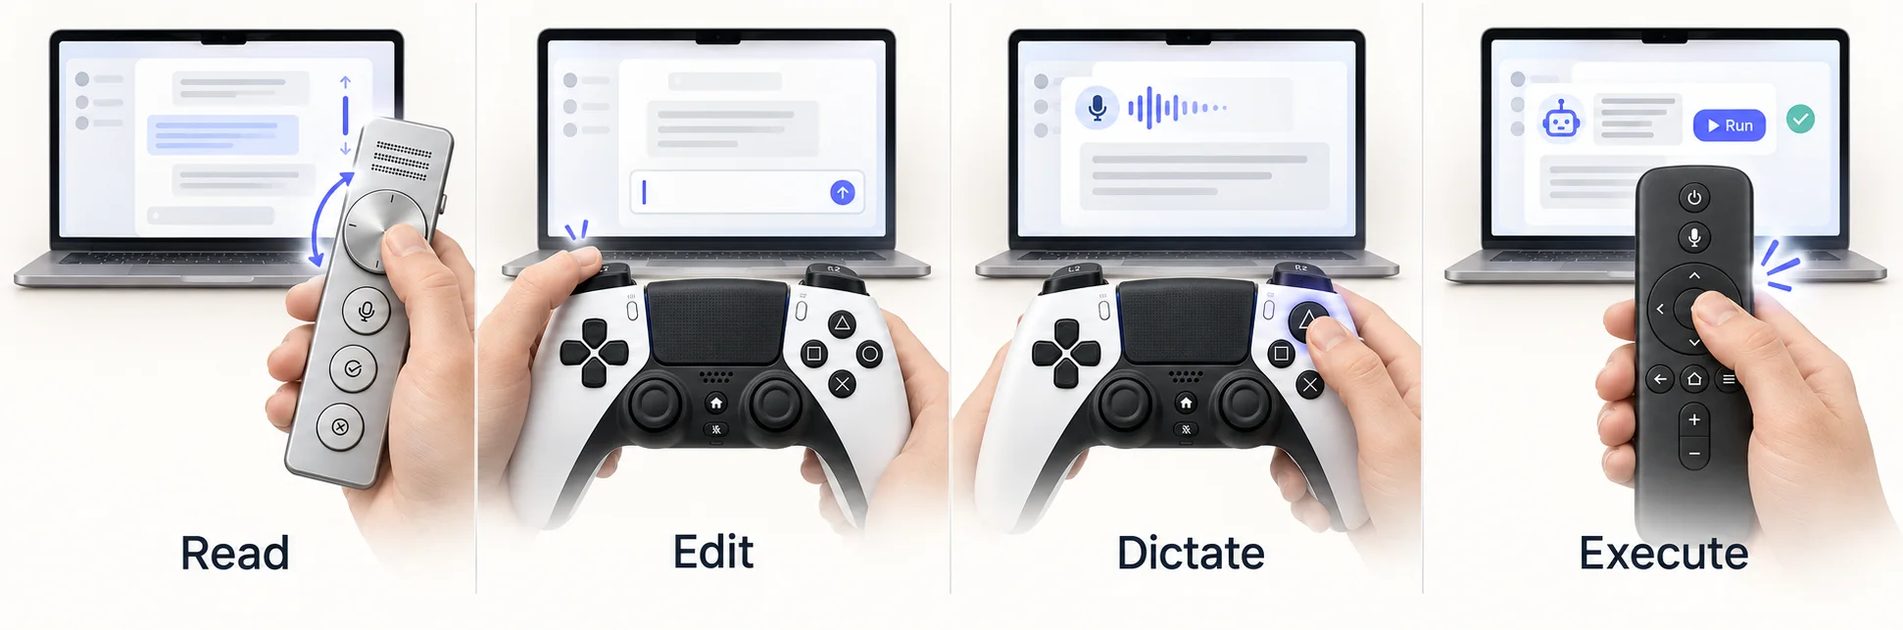
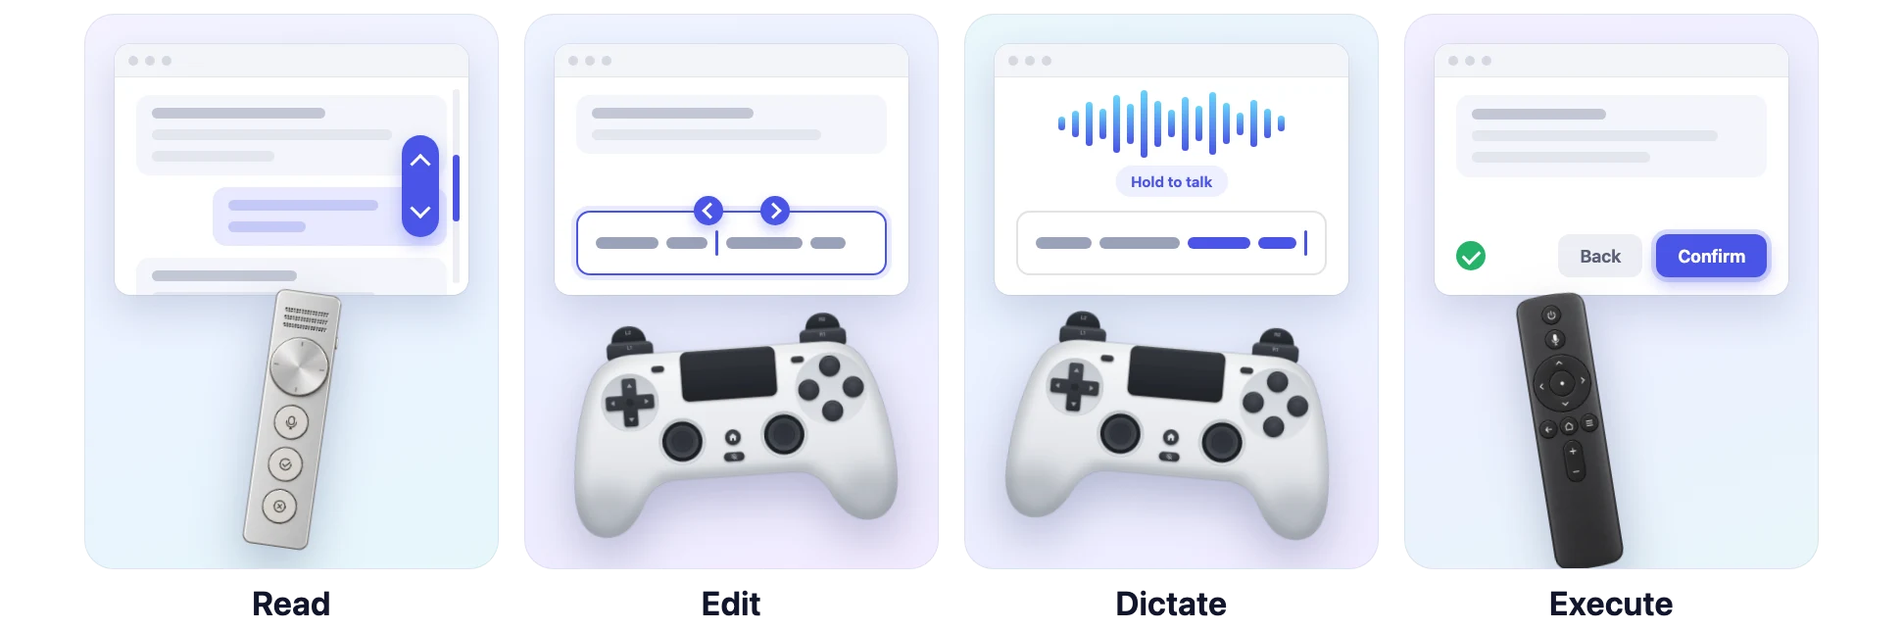
Retake the pictures that showed the former controller, compose the four scenes from our own artwork; release 0.11.2
0.11.2 carries the controller drawing of d656387 in the app; the package of
0.11.1 still had the generated picture. The app itself is otherwise
unchanged from d656387.

The pictures the READMEs and the site show were the last places with the
former picture. The overlay screenshot is taken again: the 0.11.2 package
started in Demo mode with settings of its own (a first launch, the
Controller chosen, the overlay expanded), its one overlay window captured
with screencapture -l in English and Chinese, beside a running build that
was left alone. It shows the default layout under the dark appearance and
replaces the screenshots of 0.8.1. The four scenes under "What it does"
are now docs/images/workflow-scenes.html, composed from this repository's
own device pictures and rendered with headless Chrome; the two generated
illustrations they replace, which showed hands holding the former
controller, are removed with their prompts. docs/images/README.md says how
each was made.

Still showing the former picture: historical renderings and concept
pictures in the documentation, the published film, the packages up to
0.11.1 and this repository's history.

Verified: 382 tests, 341 passed and 41 opt-in skipped; the 0.11.2 package
checked statically, its kernel passing KernelLiveTests (14 passed, one
skipped) and its recogniser reading two synthetic recordings; the site
looked at in a local preview with the new pictures. Not verified: the
[…]

diff --git a/docs/images/workflow-scenes.html b/docs/images/workflow-scenes.html
@@ -1,0 +1,143 @@
+<!doctype html>
+<!-- The four scenes under “What it does”: Read, Edit, Dictate, Execute. Composed from this repository's own device
+     pictures; the screens are drawings, not captures of an app. Rendered at 1942 × 643 with headless Chrome:
+     see docs/images/README.md. -->
+<html lang="en">
+<head>
+<meta charset="utf-8">
+<title>VibeWand: what it does</title>
+<style>
+    * { box-sizing: border-box; margin: 0; padding: 0; }
+    html, body { width: 1942px; height: 643px; background: transparent; overflow: hidden; }
+    body {
+        display: grid; grid-template-columns: repeat(4, 1fr); gap: 26px; padding: 14px 86px 0;
+        font-family: -apple-system, BlinkMacSystemFont, "SF Pro Display", "Helvetica Neue", Arial, sans-serif; color: #12162b;
+    }
+    .scene { position: relative; height: 629px; }
+    .stage {
+        position: absolute; inset: 0 0 62px 0; border-radius: 30px; overflow: hidden;
+        background: linear-gradient(160deg, #f4f2ff 0%, #eaf3ff 55%, #e6f7fb 100%);
+        border: 1px solid rgba(18, 22, 43, 0.07);
+    }
+    .scene:nth-child(2) .stage { background: linear-gradient(160deg, #eef4ff 0%, #ebeeff 55%, #f3ecff 100%); }
+    .scene:nth-child(3) .stage { background: linear-gradient(160deg, #e9f6fb 0%, #eaf1ff 55%, #f1ecff 100%); }
+    .scene:nth-child(4) .stage { background: linear-gradient(160deg, #f3efff 0%, #ecf0ff 55%, #e8f6fa 100%); }
+    h3 { position: absolute; left: 0; right: 0; bottom: 8px; text-align: center; font-size: 34px; font-weight: 650; letter-spacing: 0.2px; }
+
+    /* A window on a screen. */
+    .window {
+        position: absolute; left: 30px; right: 30px; top: 30px; height: 256px; border-radius: 16px; background: #fff;
+        box-shadow: 0 18px 40px rgba(40, 48, 110, 0.16), 0 0 0 1px rgba(18, 22, 43, 0.06); overflow: hidden;
+    }
+    .bar { height: 34px; background: #f3f4f8; border-bottom: 1px solid rgba(18, 22, 43, 0.06); display: flex; align-items: center; gap: 7px; padding-left: 14px; }
+    .bar i { width: 10px; height: 10px; border-radius: 50%; background: #d5d8e2; }
+    .content { position: absolute; inset: 34px 0 0 0; padding: 18px 22px; }
+    .line { height: 11px; border-radius: 6px; background: #e3e6ef; margin-bottom: 11px; }
+    .line.dark { background: #c2c7d6; }
+    .bubble { border-radius: 14px; padding: 13px 16px 3px; margin-bottom: 12px; background: #f3f5fa; }
+    .bubble.mine { margin-left: 78px; background: #e7e9ff; }
+    .bubble.mine .line { background: #c5c9f7; }
+
+    /* Read: the conversation scrolls. */
+    .track { position: absolute; right: 9px; top: 12px; bottom: 12px; width: 7px; border-radius: 4px; background: #eceef4; }
+    .thumb { position: absolute; left: 0; right: 0; top: 34%; height: 34%; border-radius: 4px; background: #4a54e6; }
+    .travel { position: absolute; right: 30px; top: 50%; transform: translateY(-50%); width: 38px; height: 104px; border-radius: 19px; background: #4a54e6; box-shadow: 0 8px 18px rgba(74, 84, 230, 0.35); }
+    .travel::before, .travel::after { content: ""; position: absolute; left: 50%; width: 12px; height: 12px; border: solid #fff; border-width: 3px 0 0 3px; }
+    .travel::before { top: 22px; transform: translateX(-50%) rotate(45deg); }
+    .travel::after { bottom: 22px; transform: translateX(-50%) rotate(225deg); }
+
+    /* Edit: the caret moves in the draft. */
+    .draft { position: absolute; left: 22px; right: 22px; bottom: 20px; height: 66px; border-radius: 14px; border: 2px solid #4a54e6; background: #fff; padding: 18px 18px 0; box-shadow: 0 0 0 5px rgba(74, 84, 230, 0.12); }
+    .words { display: flex; align-items: center; gap: 8px; height: 26px; }
+    .word { height: 12px; border-radius: 6px; background: #9aa1b8; }
+    .caret { width: 3px; height: 26px; border-radius: 2px; background: #4a54e6; }
+    .step { position: absolute; top: -17px; width: 30px; height: 30px; border-radius: 50%; background: #4a54e6; box-shadow: 0 6px 14px rgba(74, 84, 230, 0.35); }
+    .step::after { content: ""; position: absolute; left: 50%; top: 50%; width: 9px; height: 9px; border: solid #fff; border-width: 3px 0 0 3px; }
+    .step.back { left: 118px; } .step.back::after { transform: translate(-35%, -50%) rotate(-45deg); }
+    .step.on { left: 186px; } .step.on::after { transform: translate(-65%, -50%) rotate(135deg); }
+
+    /* Dictate: a voice becomes text in the draft. */
+    .wave { position: absolute; left: 22px; right: 22px; top: 12px; height: 70px; display: flex; align-items: center; justify-content: center; gap: 7px; }
+    .wave b { width: 7px; border-radius: 4px; background: linear-gradient(#67d4fb, #4a54e6); }
+    .mic { position: absolute; left: 50%; top: 90px; transform: translateX(-50%); padding: 7px 16px; border-radius: 16px; background: #eef0ff; color: #4a54e6; font-size: 15px; font-weight: 650; }
+    .draft.spoken { border-color: rgba(18, 22, 43, 0.12); box-shadow: none; }
+    .draft.spoken .word.new { background: #4a54e6; }
+
+    /* Execute: one press confirms. */
+    .ask { border-radius: 14px; background: #f3f5fa; padding: 14px 16px 4px; }
+    .choices { position: absolute; left: 22px; right: 22px; bottom: 18px; display: flex; gap: 14px; justify-content: flex-end; align-items: center; }
+    .button { height: 44px; padding: 0 22px; border-radius: 12px; display: flex; align-items: center; font-size: 18px; font-weight: 650; background: #eceef4; color: #5a6075; }
+    .button.go { background: #4a54e6; color: #fff; box-shadow: 0 0 0 5px rgba(74, 84, 230, 0.2), 0 8px 18px rgba(74, 84, 230, 0.35); }
+    .done { width: 30px; height: 30px; border-radius: 50%; background: #25b36a; position: relative; margin-right: auto; }
+    .done::after { content: ""; position: absolute; left: 10px; top: 6px; width: 8px; height: 14px; border: solid #fff; border-width: 0 3px 3px 0; transform: rotate(45deg); }
+
+    /* The device in the hand's place, in front of the screen. */
+    .device { position: absolute; filter: drop-shadow(0 22px 26px rgba(30, 36, 90, 0.28)); }
+    .dial { height: 292px; left: 50%; bottom: 8px; transform: translateX(-50%) rotate(8deg); }
+    .pad { width: 350px; left: 50%; bottom: 30px; transform: translateX(-50%) rotate(-4deg); }
+    .pad.right { transform: translateX(-50%) rotate(5deg); }
+    .remote { height: 296px; left: 40%; bottom: -8px; transform: translateX(-50%) rotate(-9deg); }
+</style>
+</head>
+<body>
+    <section class="scene">
+        <div class="stage">
+            <div class="window"><div class="bar"><i></i><i></i><i></i></div>
+                <div class="content">
+                    <div class="bubble"><div class="line dark" style="width:62%"></div><div class="line" style="width:86%"></div><div class="line" style="width:44%"></div></div>
+                    <div class="bubble mine"><div class="line" style="width:74%"></div><div class="line" style="width:38%"></div></div>
+                    <div class="bubble"><div class="line dark" style="width:52%"></div><div class="line" style="width:80%"></div></div>
+                    <div class="track"><div class="thumb"></div></div>
+                    <div class="travel"></div>
+                </div>
+            </div>
+            <img class="device dial" src="../../assets/device/controller.png" alt="">
+        </div>
+        <h3>Read</h3>
+    </section>
+    <section class="scene">
+        <div class="stage">
+            <div class="window"><div class="bar"><i></i><i></i><i></i></div>
+                <div class="content">
+                    <div class="bubble"><div class="line dark" style="width:58%"></div><div class="line" style="width:82%"></div></div>
+                    <div class="draft">
+                        <span class="step back"></span><span class="step on"></span>
+                        <div class="words"><span class="word" style="width:64px"></span><span class="word" style="width:42px"></span><span class="caret"></span><span class="word" style="width:78px"></span><span class="word" style="width:36px"></span></div>
+                    </div>
+                </div>
+            </div>
+            <img class="device pad" src="../../assets/device/gamepad.png" alt="">
+        </div>
+        <h3>Edit</h3>
+    </section>
+    <section class="scene">
+        <div class="stage">
+            <div class="window"><div class="bar"><i></i><i></i><i></i></div>
+                <div class="content">
+                    <div class="wave">
+                        <b style="height:14px"></b><b style="height:27px"></b><b style="height:45px"></b><b style="height:31px"></b><b style="height:59px"></b><b style="height:41px"></b><b style="height:69px"></b><b style="height:47px"></b><b style="height:28px"></b><b style="height:55px"></b><b style="height:36px"></b><b style="height:64px"></b><b style="height:42px"></b><b style="height:23px"></b><b style="height:48px"></b><b style="height:30px"></b><b style="height:16px"></b>
+                    </div>
+                    <div class="mic">Hold to talk</div>
+                    <div class="draft spoken">
+                        <div class="words"><span class="word" style="width:58px"></span><span class="word" style="width:84px"></span><span class="word new" style="width:66px"></span><span class="word new" style="width:40px"></span><span class="caret"></span></div>
+                    </div>
+                </div>
+            </div>
+            <img class="device pad right" src="../../assets/device/gamepad.png" alt="">
+        </div>
+        <h3>Dictate</h3>
+    </section>
+    <section class="scene">
+        <div class="stage">
+            <div class="window"><div class="bar"><i></i><i></i><i></i></div>
+                <div class="content">
+                    <div class="ask"><div class="line dark" style="width:48%"></div><div class="line" style="width:88%"></div><div class="line" style="width:64%"></div></div>
+                    <div class="choices"><span class="done"></span><span class="button">Back</span><span class="button go">Confirm</span></div>
+                </div>
+            </div>
+            <img class="device remote" src="../../assets/device/remote.png" alt="">
+        </div>
+        <h3>Execute</h3>
+    </section>
+</body>
+</html>

diff --git a/site/index.html b/site/index.html
@@ -50,7 +50,7 @@
 <section class="hero">
     <div class="wrap">
         <img class="hero-icon" src="img/icon.webp" alt="" width="112" height="112">
-        <div><span class="pill"><span lang="zh">当前版本</span><span lang="en">Current release</span><b>0.11.1</b></span></div>
+        <div><span class="pill"><span lang="zh">当前版本</span><span lang="en">Current release</span><b>0.11.2</b></span></div>
         <h1 class="wordmark">Vibe<span>Wand</span></h1>
         <p class="cn-name" lang="zh">如意魔棒</p>
         <p class="tagline">One wand to command them all.</p>
@@ -70,14 +70,14 @@
         <p class="caption" lang="zh">还有 iTerm2 里的 Claude Code、Codex、OpenCode，以及 Edge、Brave、Firefox、Opera、Vivaldi。</p>
         <p class="caption" lang="en">Also Claude Code, Codex and OpenCode in iTerm2, and Edge, Brave, Firefox, Opera and Vivaldi.</p>
         <div class="cta">
-            <a class="btn primary" href="https://github.com/xuhao1/vibewand-site/releases/download/v0.11.1/VibeWand-0.11.1-macOS-arm64.zip">
+            <a class="btn primary" href="https://github.com/xuhao1/vibewand-site/releases/download/v0.11.2/VibeWand-0.11.2-macOS-arm64.zip">
                 <svg viewBox="0 0 16 16" fill="none" stroke="currentColor" stroke-width="1.8" stroke-linecap="round" stroke-linejoin="round" aria-hidden="true"><path d="M8 2v8.5M4.5 7.5 8 11l3.5-3.5M3 14h10"/></svg>
-                <span lang="zh">下载 0.11.1（Apple Silicon）</span><span lang="en">Download 0.11.1 (Apple Silicon)</span>
+                <span lang="zh">下载 0.11.2（Apple Silicon）</span><span lang="en">Download 0.11.2 (Apple Silicon)</span>
             </a>
             <a class="btn" href="#apps"><span lang="zh">在每个应用里能做什么</span><span lang="en">What it does in each app</span></a>
         </div>
-        <p class="caption" lang="zh">macOS 26 以上 · M 系列芯片 · 约 106 MB</p>
-        <p class="caption" lang="en">macOS 26 or later · M-series Mac · about 106 MB</p>
+        <p class="caption" lang="zh">macOS 26 以上 · M 系列芯片 · 约 103 MB</p>
+        <p class="caption" lang="en">macOS 26 or later · M-series Mac · about 103 MB</p>
     </div>
     <figure class="cover">
         <div class="film" lang="zh">
@@ -157,10 +157,10 @@
 
         <div class="split">
             <figure>
-                <img lang="zh" src="img/overlay-zh.webp" width="920" height="1006" loading="lazy" alt="VibeWand 0.8.1 演示模式下的真实悬浮面板与语音条截图">
-                <img lang="en" src="img/overlay-en.webp" width="920" height="1006" loading="lazy" alt="Actual VibeWand 0.8.1 overlay and speech bar in Demo mode">
-                <figcaption class="caption" lang="zh">VibeWand 0.8.1 实际运行窗口截图，使用演示模式。</figcaption>
-                <figcaption class="caption" lang="en">Actual VibeWand 0.8.1 window, captured in Demo mode.</figcaption>
+                <img lang="zh" src="img/overlay-zh.webp" width="1040" height="1070" loading="lazy" alt="VibeWand 0.11.2 演示模式下的真实悬浮面板与语音条截图">
+                <img lang="en" src="img/overlay-en.webp" width="1040" height="1070" loading="lazy" alt="Actual VibeWand 0.11.2 overlay and speech bar in Demo mode">
+                <figcaption class="caption" lang="zh">VibeWand 0.11.2 实际运行窗口截图，使用演示模式。</figcaption>
+                <figcaption class="caption" lang="en">Actual VibeWand 0.11.2 window, captured in Demo mode.</figcaption>
             </figure>
             <div>
                 <h2 lang="zh">每个键现在做什么，<br>面板上写着。</h2>
@@ -374,11 +374,11 @@
                 <p lang="zh">需要 macOS 26 以上和 M 系列芯片。解压后把 <strong>VibeWand.app</strong> 拖进“应用程序”并打开。第一次打开会出现引导，带你走完权限、设备、语音输入和命令模式，每一步都可以跳过。</p>
                 <p lang="en">Requires macOS 26 or later on an M-series Mac. Unzip, drag <strong>VibeWand.app</strong> into Applications and open it. The first launch shows a guide that walks you through permission, your device, voice input and command mode; every step can be skipped.</p>
                 <div class="cta">
-                    <a class="btn primary" href="https://github.com/xuhao1/vibewand-site/releases/download/v0.11.1/VibeWand-0.11.1-macOS-arm64.zip">
+                    <a class="btn primary" href="https://github.com/xuhao1/vibewand-site/releases/download/v0.11.2/VibeWand-0.11.2-macOS-arm64.zip">
                         <svg viewBox="0 0 16 16" fill="none" stroke="currentColor" stroke-width="1.8" stroke-linecap="round" stroke-linejoin="round" aria-hidden="true"><path d="M8 2v8.5M4.5 7.5 8 11l3.5-3.5M3 14h10"/></svg>
-                        <span lang="zh">下载 VibeWand 0.11.1</span><span lang="en">Download VibeWand 0.11.1</span>
+                        <span lang="zh">下载 VibeWand 0.11.2</span><span lang="en">Download VibeWand 0.11.2</span>
                     </a>
-                    <a class="btn" href="https://github.com/xuhao1/vibewand-site/releases/tag/v0.11.1"><span lang="zh">说明与校验和</span><span lang="en">Notes and checksum</span></a>
+                    <a class="btn" href="https://github.com/xuhao1/vibewand-site/releases/tag/v0.11.2"><span lang="zh">说明与校验和</span><span lang="en">Notes and checksum</span></a>
                 </div>
                 <p class="fine" lang="zh">这个版本是临时签名，没有做 Apple 公证。首次打开如果被 macOS 阻止，在“系统设置 → 隐私与安全性”里允许，见 <a href="https://support.apple.com/guide/mac-help/open-a-mac-app-from-an-unidentified-developer-mh40616/mac">Apple 的说明</a>。</p>
                 <p class="fine" lang="en">This build is ad-hoc signed and not notarized by Apple. If macOS blocks the first launch, allow it under System Settings → Privacy &amp; Security; see <a href="https://support.apple.com/guide/mac-help/open-a-mac-app-from-an-unidentified-developer-mh40616/mac">Apple's guide</a>.</p>

diff --git a/Sources/VibeWandBridge/SettingsComponents.swift b/Sources/VibeWandBridge/SettingsComponents.swift
@@ -5,7 +5,7 @@ import AU05Device
 private func tr(_ zh: String, _ en: String) -> String { L10n.tr(zh, en) }
 
 enum SettingsStyle {
-    static var version: String { Bundle.main.object(forInfoDictionaryKey: "CFBundleShortVersionString") as? String ?? "0.11.1" }
+    static var version: String { Bundle.main.object(forInfoDictionaryKey: "CFBundleShortVersionString") as? String ?? "0.11.2" }
 }
 
 /// A system material that follows the window appearance without intercepting controls above it.

diff --git a/docs/images/README.md b/docs/images/README.md
@@ -10,15 +10,14 @@
 
 - `applications-v080-zh.png` and `applications-v080-en.png`: Chinese and English renderings of the implemented 0.8.0 Applications page, exported by `WorkBuddyTests` with `VIBEWAND_APPLICATIONS_REVIEW=output/release-v0.8.0/ui`. The test renders VibeWand's own hidden view without starting device input or controlling a target app. These images document the settings card, not live WorkBuddy compatibility. / 0.8.0 已实现的中英文应用适配页面，由隐藏窗口测试渲染，只证明设置卡片的实现，不是 WorkBuddy 实机或硬件验收记录。
 
-- `overlay-v081-screenshot-en.jpg` and `overlay-v081-screenshot-zh.jpg`: actual window screenshots of the running VibeWand 0.8.1 app, captured with `cua_repl` on 2026-10-05 for the English and Chinese READMEs. The controller overlay is expanded in Demo mode, in the Editing text context with external dictation selected. The JPEGs are saved directly from the window capture without image generation, compositing or retouching. They show the capture session's saved bindings; current defaults remain documented in the default-controls guide. / VibeWand 0.8.1 实际运行窗口的中英文截图，2026-10-05 通过 `cua_repl` 截取，直接保存 JPEG，未使用图像生成、拼接或修图。截图为手柄完整面板、演示模式、编辑文字场景及外置输入法；按键提示反映截图时的已保存配置，默认映射以当前使用指南为准。
+- `overlay-v0112-screenshot-en.png` and `overlay-v0112-screenshot-zh.png`: actual window screenshots of the VibeWand 0.11.2 package running in Demo mode, captured on 2026-10-07 with `screencapture -l` on its one overlay window, for the English and Chinese READMEs and, converted with `cwebp`, the site (`site/img/overlay-*.webp`). The app was started with settings of its own (a first launch with the Controller chosen and the overlay expanded), so they show the default layout, in the Editing text context with external dictation, under the system's dark appearance. The PNGs are the captures as they came, without image generation, compositing or retouching; no controller was connected and nothing was sent to another app. They replace the 0.8.1 screenshots, which showed the controller picture that was redrawn that day. / VibeWand 0.11.2 安装包在演示模式下实际运行窗口的中英文截图，2026-10-07 用 `screencapture -l` 截取它的那一个悬浮窗，直接保存，未使用图像生成、拼接或修图；用 `cwebp` 转出的副本用于项目主页。应用以它自己的一份设置启动（首次启动、选中手柄、展开面板），所以显示的是默认布局、编辑文字场景、外置输入法，系统为深色外观。没有连接手柄，也没有向别的应用发送任何操作。它们取代了 0.8.1 的截图，那两张里是当天被重画掉的旧手柄图。
 
 - `terminal-v084-codex.jpg`: actual window screenshot of iTerm2 3.7.3 running Codex CLI 0.160.0 in a scratch directory, captured in the background with the Claude desktop app's computer-use tool on 2026-10-05 during the 0.8.4 terminal acceptance. The production runtime had typed `/model` and received two steps of turning; nothing in the window was typed by hand, and it shows no saved chats or conversation. Used by both language versions of the applications guide.
 
 - `overlay-v060-light.png`: historical README image, replaced by the live-window screenshots above. Rendered from the 0.6.0 native controller HUD and voice-bar components by the existing hidden-window UI test, using a demonstration chat-picker snapshot. It is an implemented-interface rendering, not an AI concept or a physical-device acceptance record. Original export: `output/release-v0.6.0/ui/dualSense-compact-light.png`. / 原 README 界面图，现已替换为上述实际运行窗口截图，旧图保留作历史记录。
 
-- `workflow-hero-v2.png`: four-scene illustration (Read / Edit / Dictate / Execute), shown under “What it does” in the READMEs and on the site; it was the title picture until the cover above took that place on 2026-10-06. Generated by editing the three-scene image with the built-in imagegen tool on 2026-10-04. The fourth scene uses `assets/device/remote.png` as the device reference: the center button confirms a foreground AI workflow command/action through Return or a configured shortcut. The depicted Run control is illustrative, not an additional VibeWand command execution engine. Final editing prompt: [workflow-hero-v2-prompt.txt](workflow-hero-v2-prompt.txt). The original three-scene asset is retained below as provenance.
+- `workflow-scenes.png`: the four scenes under “What it does” in the READMEs and on the site (`site/img/scenes.webp`, `cwebp -q 88`): Read, Edit, Dictate, Execute. An illustration, composed on 2026-10-07 in `workflow-scenes.html` from this repository's own device pictures and rendered at 1942 × 643 with headless Chrome (`--headless=new --window-size=1942,643 --default-background-color=00000000 --screenshot=…`). The windows on its screens are drawings, not captures of an app, and the Confirm control in the fourth scene stands for confirming in the app in front, not for a command engine of VibeWand's own. It replaces `workflow-hero-v2.png` and `workflow-hero.png`, generated illustrations of 2026-10-04 that showed hands holding the former controller picture; they and their prompts were removed from the tree. / “能做什么”下面的四联示意图：读、改、说、执行。2026-10-07 用本仓库自己的设备图在 `workflow-scenes.html` 里合成，由无界面 Chrome 渲染；屏幕里的窗口是画出来的，不是应用截图。它取代了 2026-10-04 用图像生成工具做的 `workflow-hero-v2.png` 和 `workflow-hero.png`（画里是手握旧手柄图），那两张图和它们的提示词已从仓库文件中移除。
 
-- `workflow-hero.png`: AI-generated three-scene illustration (Read / Edit / Dictate), created on 2026-10-04 with the built-in imagegen tool. The device artwork in `assets/device/controller.png` and `assets/device/gamepad.png` supplied shape references. The laptops, hands, screen contents and usage scenes are illustrative, not actual application captures or evidence of hardware compatibility. Dictation uses the microphone selected by macOS/the input method. The complete final prompt is retained in [workflow-hero-prompt.txt](workflow-hero-prompt.txt).
 - `ui-audit/en-compact-devices.png` and `settings-native.png`: captures/renderings of the implemented native settings view from 0.5.3. The README captions identify the version; displayed historical bindings do not override the current default-controls guide.
 
 首页以宣传片封面为题图，“能做什么”一节使用四联场景图及对应语言的实际运行窗口截图。题图和场景图都是示意，不证明实机兼容性；窗口截图展示演示模式下的界面，默认映射以当前使用指南为准。

diff --git a/docs/licensing-open-items.md b/docs/licensing-open-items.md
@@ -115,11 +115,11 @@ The models are neither shipped nor stored in the repository. When the user asks,
 ## 6. 设备插画、图标和文档图片 / Device artwork, icon and documentation images
 
 - **设备插画**（`assets/device/`，随包分发）。三张图都由图像生成工具生成，不带厂商标志。`controller.png` 生成时参考过厂商的 AU05 产品页，手柄那张的提示词要的是“可辨认的 PS5 风格轮廓”。[`assets/device/README.md`](../assets/device/README.md) 自己写着：反复修改不等于版权清理。外观设计方面没有做过核对。
-- **手柄图已重画（2026-10-07）。**原图换成了本项目自己画的 `assets/device/gamepad.svg`：常见外形的单色外壳，四个动作键不带符号，没有用任何产品照片；应用、README、封面、项目主页的设备图和按键一览的渲染图都换了。还带着原图的有：README 和主页里 0.8.1 的悬浮窗截图、“它能做什么”的四联插画（AI 生成，画里有手柄）、文档里的历史渲染图和概念图、已发布的宣传片，以及仓库的提交历史。
+- **手柄图已重画（2026-10-07）。**原图换成了本项目自己画的 `assets/device/gamepad.svg`：常见外形的单色外壳，四个动作键不带符号，没有用任何产品照片；应用、README、封面、项目主页的设备图和按键一览的渲染图都换了。0.11.2 起安装包里也是新图，README 和主页的悬浮窗截图换成了 0.11.2 的实拍，“能做什么”的四联图换成了用本仓库设备图合成的一张。还带着原图的有：文档里的历史渲染图和概念图、已发布的宣传片、0.11.1 及更早的安装包，以及仓库的提交历史。
 - **应用图标和首页场景图。**AI 生成，来源和提示词记录在 [`assets/app-icon/README.md`](../assets/app-icon/README.md) 和 [`docs/images/README.md`](images/README.md)。没有核对所用工具对生成图像的条款，AI 生成图像的权利在各地规定不同。
 - **文档里第三方应用的截图**，例如 `docs/images/terminal-v084-codex.jpg`（iTerm2 里的 Codex CLI）。
 
-**The controller picture was redrawn on 2026-10-07.** It is now this project's own drawing, `assets/device/gamepad.svg`: a one-colour shell of a common shape with four plain action buttons, made without any product photograph. The app, the READMEs, the cover, the site's device picture and the renderings of the controls card use it. Still showing the former picture: the 0.8.1 overlay screenshot in the READMEs and on the site, the four-scene illustration under “What it does” (generated, with a controller in it), historical renderings and concept pictures in the documentation, the published film, and the repository's commit history. **Device artwork** (`assets/device/`, shipped in the app): the three pictures were made with an image generation tool and carry no maker's mark. `controller.png` was generated with the maker's AU05 product sheet viewed as a reference, and the prompt for the gamepad asks for “a recognizable PS5-style silhouette”. [`assets/device/README.md`](../assets/device/README.md) itself says that repeated editing is not proof of clearance. Nothing has been checked on the side of design rights. **App icon and hero images**: generated, with sources and prompts recorded in [`assets/app-icon/README.md`](../assets/app-icon/README.md) and [`docs/images/README.md`](images/README.md); the terms of the tool for generated images were not checked, and rights in generated images differ by country. **Screenshots of other apps in the documentation**, such as `docs/images/terminal-v084-codex.jpg` (Codex CLI in iTerm2).
+**The controller picture was redrawn on 2026-10-07.** It is now this project's own drawing, `assets/device/gamepad.svg`: a one-colour shell of a common shape with four plain action buttons, made without any product photograph. The app, the READMEs, the cover, the site's device picture and the renderings of the controls card use it. From 0.11.2 the package carries the new picture too, the overlay screenshot in the READMEs and on the site is one of 0.11.2, and the four scenes under “What it does” are composed from this repository's own device pictures. Still showing the former picture: historical renderings and concept pictures in the documentation, the published film, the packages up to 0.11.1, and the repository's commit history. **Device artwork** (`assets/device/`, shipped in the app): the three pictures were made with an image generation tool and carry no maker's mark. `controller.png` was generated with the maker's AU05 product sheet viewed as a reference, and the prompt for the gamepad asks for “a recognizable PS5-style silhouette”. [`assets/device/README.md`](../assets/device/README.md) itself says that repeated editing is not proof of clearance. Nothing has been checked on the side of design rights. **App icon and hero images**: generated, with sources and prompts recorded in [`assets/app-icon/README.md`](../assets/app-icon/README.md) and [`docs/images/README.md`](images/README.md); the terms of the tool for generated images were not checked, and rights in generated images differ by country. **Screenshots of other apps in the documentation**, such as `docs/images/terminal-v084-codex.jpg` (Codex CLI in iTerm2).
 
 ## 7. 名称与商标 / Names and trademarks
 

diff --git a/README.md b/README.md
@@ -28,7 +28,7 @@ The tools keep multiplying, and each has its own chat list, model menu and short
 
 ## What it does
 
-![Illustration: read with a dial, edit and dictate with a controller, confirm with a remote](docs/images/workflow-hero-v2.png)
+![Illustration: read with a dial, edit and dictate with a controller, confirm with a remote](docs/images/workflow-scenes.png)
 
 - **Read.** Turn the dial or push a stick to scroll the conversation. Once the draft has text in it, the same motion moves the cursor instead.
 - **Speak.** Hold the microphone button and talk. When you let go, the text is in the composer, and nothing is sent for you. Use the built-in recognition, which records from the microphone of the device you are holding: macOS dictation or your own speech API, both of which take your own vocabulary, or SenseVoice running on this Mac with no key and no network. Or keep using an input method such as Typeless. With vocabulary learning on (it is off by default), the words you correct in the field afterwards go into your vocabulary.
@@ -36,9 +36,9 @@ The tools keep multiplying, and each has its own chat list, model menu and short
 - **Remap.** Every button's press, double press and long press can be reassigned in Settings, and each device keeps its own layout.
 - **Command.** Hold the command key and say “switch to the Codex chat about the microphone” or “open the Runtime.swift tab”, and it finds and opens it for you; “set the effort to the lowest” works the menu that Codex's model button opens. With Alibaba's voice service, its model hears the command itself, acts, and answers you aloud; the voice is yours to pick, a man's, a woman's or a dialect, and “switch to a man's voice” does it too. A command you spoke can be played back as you said it. The model is yours to choose: DeepSeek, OpenAI, Anthropic, a local model or any compatible address. It works as soon as one is set up, and can instead run as a plugin of a DeepSeek Harness you installed yourself, where each conversation can be read and models are set up; see [Command mode](docs/command-mode.en.md).
 
-<p align="center"><img src="docs/images/overlay-v081-screenshot-en.jpg" width="500" alt="Actual VibeWand 0.8.1 overlay and speech bar in Demo mode"></p>
+<p align="center"><img src="docs/images/overlay-v0112-screenshot-en.png" width="500" alt="Actual VibeWand 0.11.2 overlay and speech bar in Demo mode"></p>
 
-*Actual VibeWand 0.8.1 window, captured in Demo mode.*
+*Actual VibeWand 0.11.2 window, captured in Demo mode.*
 
 A floating overlay shows what each button will do right now. It collapses into a thin bar when you want it out of the way, and the button that expands and collapses it never moves.
 
@@ -111,7 +111,7 @@ What each capability covers, which channel each app uses and what has been verif
 
 ## Install
 
-**[Download VibeWand 0.11.1 (Apple Silicon)](https://github.com/xuhao1/VibeWand/releases/download/v0.11.1/VibeWand-0.11.1-macOS-arm64.zip)** · [Release notes](https://github.com/xuhao1/VibeWand/releases/latest)
+**[Download VibeWand 0.11.2 (Apple Silicon)](https://github.com/xuhao1/VibeWand/releases/download/v0.11.2/VibeWand-0.11.2-macOS-arm64.zip)** · [Release notes](https://github.com/xuhao1/VibeWand/releases/latest)
 
 Requires macOS 26 or later on an M-series Mac (0.8.4 is the last version for macOS 13 to 15). Unzip, drag **VibeWand.app** into Applications and open it. The first launch shows a guide that walks you through the steps below, voice input and command mode; every step can be skipped. By hand:
 
@@ -130,7 +130,7 @@ brew install opus
 bash scripts/build-app.sh
 ```
 
-The result is `dist/VibeWand.app`. The build downloads pinned versions of Node.js and DeepSeek Harness as the kernel for command mode, which makes the app about 328 MB; `VIBEWAND_SKIP_KERNEL=1` leaves it out. More in the [development guide](docs/development.md).
+The result is `dist/VibeWand.app`. The build downloads pinned versions of Node.js and DeepSeek Harness as the kernel for command mode, which makes the app about 325 MB; `VIBEWAND_SKIP_KERNEL=1` leaves it out. More in the [development guide](docs/development.md).
 
 ## Documentation
 

diff --git a/docs/development.md b/docs/development.md
@@ -2,9 +2,9 @@
 
 [Documentation / 文档目录](README.md) · [Contributing / 贡献说明](../CONTRIBUTING.md)
 
-Use an Apple Silicon Mac with full Xcode 26 or later (macOS 26+ SDK) and Homebrew Opus for the bundled application. The source and the published 0.11.1 package target macOS 26; 0.8.4 was the last package for macOS 13+. See [Getting started](getting-started.en.md) / [快速开始](getting-started.md) to build the application bundle.
+Use an Apple Silicon Mac with full Xcode 26 or later (macOS 26+ SDK) and Homebrew Opus for the bundled application. The source and the published 0.11.2 package target macOS 26; 0.8.4 was the last package for macOS 13+. See [Getting started](getting-started.en.md) / [快速开始](getting-started.md) to build the application bundle.
 
-打包环境需要 Apple Silicon Mac、完整 Xcode 26+（macOS 26+ SDK）及 Homebrew Opus。源码和已发布的 0.11.1 安装包的最低系统都是 macOS 26；0.8.4 是最后一个支持 macOS 13 以上的安装包。
+打包环境需要 Apple Silicon Mac、完整 Xcode 26+（macOS 26+ SDK）及 Homebrew Opus。源码和已发布的 0.11.2 安装包的最低系统都是 macOS 26；0.8.4 是最后一个支持 macOS 13 以上的安装包。
 
 ## Build from source / 从源码编译
 
@@ -21,9 +21,9 @@ The script compiles a release build, copies the icon, device images and license 
 
 脚本完成 Release 编译、素材与许可证打包和签名，生成 **`dist/VibeWand.app`**。在 Finder 中打开，或复制到「应用程序」后双击；设置、演示、采集与诊断均通过图形界面操作。
 
-The default build targets the build Mac's architecture. The published 0.11.1 package is **arm64 / Apple Silicon**, requires macOS 26+, uses ad-hoc signing, and is not Apple-notarized. The bundled microphone-helper build currently targets arm64, so this packaging flow does not support Intel.
+The default build targets the build Mac's architecture. The published 0.11.2 package is **arm64 / Apple Silicon**, requires macOS 26+, uses ad-hoc signing, and is not Apple-notarized. The bundled microphone-helper build currently targets arm64, so this packaging flow does not support Intel.
 
-默认编译面向构建机器的架构。已发布 0.11.1 为 **arm64 / Apple Silicon**，要求 macOS 26+，临时签名且未公证；当前麦克风组件固定编译为 arm64，此打包流程不支持 Intel。
+默认编译面向构建机器的架构。已发布 0.11.2 为 **arm64 / Apple Silicon**，要求 macOS 26+，临时签名且未公证；当前麦克风组件固定编译为 arm64，此打包流程不支持 Intel。
 
 ## Command kernel / 命令内核
 
@@ -164,7 +164,7 @@ The film at the top of the page is played from the site itself: `site/video/vibe
 **While this repository is private, the page links to nothing in it.** The download is a release of the site's repository, not of this one, because a visitor cannot reach this one; the package goes there as a release asset rather than into `site/`, since Git refuses a file over 100 MB and the package is close to that. The page states the released version in its download links and size, so with each release:
 
 ```sh
-gh release create v0.11.1 -R xuhao1/vibewand-site VibeWand-0.11.1-macOS-arm64.zip SHA256SUMS-0.11.1.txt
+gh release create v0.11.2 -R xuhao1/vibewand-site VibeWand-0.11.2-macOS-arm64.zip SHA256SUMS-0.11.2.txt
 ```
 
 then update the version, links and size in `site/index.html` and publish. When this repository is opened, point the download back at its own releases and bring back the links to the documentation and the source, and the license statement in the footer: until then the owner wants no license terms on the page or in that repository's release notes, and the footer says only that the project is to be opened soon.

diff --git a/docs/command-mode.en.md b/docs/command-mode.en.md
@@ -68,6 +68,7 @@ The recording does not enter the harness's session store and is not sent to the 
 | 0.10.2 | `vibewand-coordinator` 0.10.2; with all tools, `vibewand-overlay` 0.10.2 as well. Their contents are those of 0.10.1; only the version changed | 0.2.0-rc.2 |
 | 0.11.0 | `vibewand-coordinator` 0.11.0; with all tools, `vibewand-overlay` 0.11.0 as well; with “Show commands as voice messages” on, `vibewand-view` 0.11.0 in the harness's desktop and web apps | 0.2.0-rc.2 |
 | 0.11.1 | `vibewand-coordinator`, `vibewand-overlay` and `vibewand-view` 0.11.1. Their contents are those of 0.11.0; only the version and the stated license (GPL-3.0-only) changed | 0.2.0-rc.2 |
+| 0.11.2 | `vibewand-coordinator`, `vibewand-overlay` and `vibewand-view` 0.11.2. Their contents are those of 0.11.1; only the version changed | 0.2.0-rc.2 |
 
 The settings page shows the version it found and whether it is verified. On a version outside the table a command does not run and says why. You can turn on “Try this unverified version anyway”, and VibeWand then records an exemption the way the harness does, for exactly this plugin version on this harness version. It may fail; switch back to the built-in kernel if it does. The desktop app updates itself, so meeting this after an update is to be expected. The built-in copy stays at 0.2.0-rc.2 and is not affected.
 

diff --git a/docs/command-mode.md b/docs/command-mode.md
@@ -68,6 +68,7 @@
 | 0.10.2 | `vibewand-coordinator` 0.10.2；全部工具时另加 `vibewand-overlay` 0.10.2。内容与 0.10.1 的相同，只有版本号变了 | 0.2.0-rc.2 |
 | 0.11.0 | `vibewand-coordinator` 0.11.0；全部工具时另加 `vibewand-overlay` 0.11.0；打开了“显示成语音消息”时，Harness 的桌面版和网页版里另有 `vibewand-view` 0.11.0 | 0.2.0-rc.2 |
 | 0.11.1 | `vibewand-coordinator`、`vibewand-overlay` 和 `vibewand-view` 0.11.1。内容与 0.11.0 相同，只改了版本号和写明的许可（GPL-3.0-only） | 0.2.0-rc.2 |
+| 0.11.2 | `vibewand-coordinator`、`vibewand-overlay` 和 `vibewand-view` 0.11.2。内容与 0.11.1 相同，只改了版本号 | 0.2.0-rc.2 |
 
 设置页会显示检测到的版本和“已验证 / 未验证”。版本不在表里时，命令不会运行，并告诉你原因；可以打开“仍然在这个未验证的版本上尝试”，VibeWand 会按 Harness 的规矩为“这个插件版本 + 这个 Harness 版本”登记一条例外。它可能出错，出错时改回内置内核。Harness 桌面版会自动更新，更新后遇到这种情况是预期之内的。内置的那一份固定在 0.2.0-rc.2，不受影响。
 

diff --git a/docs/getting-started.en.md b/docs/getting-started.en.md
@@ -4,7 +4,7 @@
 
 ## 1. Download and open
 
-Download **[VibeWand-0.11.1-macOS-arm64.zip](https://github.com/xuhao1/VibeWand/releases/download/v0.11.1/VibeWand-0.11.1-macOS-arm64.zip)** from [GitHub Releases](https://github.com/xuhao1/VibeWand/releases/latest). This package requires **macOS 26+** and an **Apple Silicon Mac**; it does not include an Intel binary. The download is about 106 MB, as it carries the kernel for command mode and the SenseVoice recogniser. On macOS 13 to 15, use [0.8.4](https://github.com/xuhao1/VibeWand/releases/tag/v0.8.4).
+Download **[VibeWand-0.11.2-macOS-arm64.zip](https://github.com/xuhao1/VibeWand/releases/download/v0.11.2/VibeWand-0.11.2-macOS-arm64.zip)** from [GitHub Releases](https://github.com/xuhao1/VibeWand/releases/latest). This package requires **macOS 26+** and an **Apple Silicon Mac**; it does not include an Intel binary. The download is about 103 MB, as it carries the kernel for command mode and the SenseVoice recogniser. On macOS 13 to 15, use [0.8.4](https://github.com/xuhao1/VibeWand/releases/tag/v0.8.4).
 
 1. Double-click the ZIP in Finder to extract **VibeWand.app**.
 2. Drag it into **Applications**.

diff --git a/docs/getting-started.md b/docs/getting-started.md
@@ -4,7 +4,7 @@
 
 ## 1. 下载并打开
 
-从 [GitHub Releases](https://github.com/xuhao1/VibeWand/releases/latest) 下载 **[VibeWand-0.11.1-macOS-arm64.zip](https://github.com/xuhao1/VibeWand/releases/download/v0.11.1/VibeWand-0.11.1-macOS-arm64.zip)**。本包要求 **macOS 26+**、**Apple Silicon Mac**，不含 Intel 可执行文件，下载约 106 MB（内含命令模式的内核和本机 SenseVoice 的识别程序）；macOS 13–15 请使用 [0.8.4](https://github.com/xuhao1/VibeWand/releases/tag/v0.8.4)。
+从 [GitHub Releases](https://github.com/xuhao1/VibeWand/releases/latest) 下载 **[VibeWand-0.11.2-macOS-arm64.zip](https://github.com/xuhao1/VibeWand/releases/download/v0.11.2/VibeWand-0.11.2-macOS-arm64.zip)**。本包要求 **macOS 26+**、**Apple Silicon Mac**，不含 Intel 可执行文件，下载约 103 MB（内含命令模式的内核和本机 SenseVoice 的识别程序）；macOS 13–15 请使用 [0.8.4](https://github.com/xuhao1/VibeWand/releases/tag/v0.8.4)。
 
 1. 在 Finder 中双击 ZIP，解压得到 **VibeWand.app**。
 2. 拖入「应用程序」。
